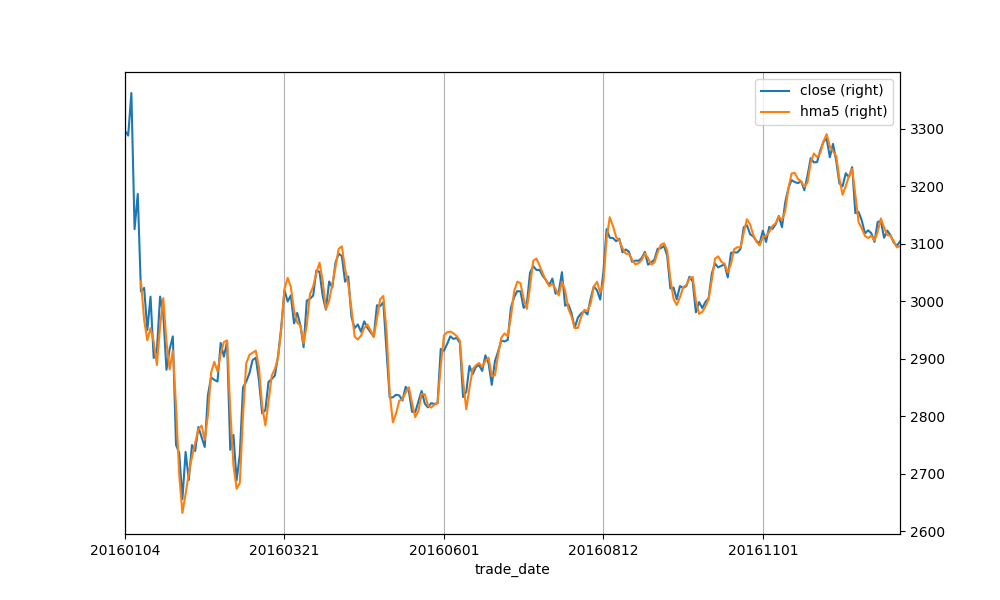
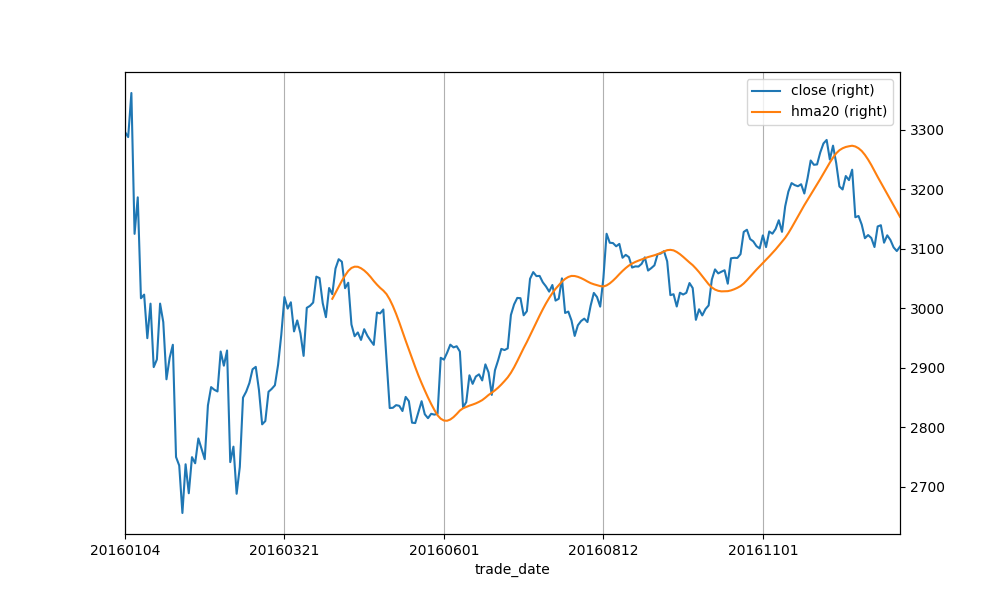
backtest

diff --git a/src/research/timing.py b/src/research/timing.py
@@ -5,7 +5,7 @@ import matplotlib.pyplot as plt
 import pandas as pd
 from src.context import context
 from src.utils.share_selector import ShareSelector
-
+from common.backtest import BackTest
 
 def hma(y, N):
     return ta.WMA((2 * ta.WMA(y, N / 2) - ta.WMA(y, N)), int(math.sqrt(N)))
@@ -24,7 +24,7 @@ df['sma20'] = ta.SMA(df[target_column], timeperiod=20)
 
 df['hma5'] = hma(df['close'], 5)
 df['hma10'] = hma(df['close'], 10)
-df['hma15'] = hma(df['close'], 20)
+df['hma20'] = hma(df['close'], 60)
 
 # buy_signal = df["sma5"] > df["sma10"]
 # df['up'] = df["sma5"] > df["sma10"]
@@ -32,16 +32,27 @@ df['hma15'] = hma(df['close'], 20)
 day_offset = 1
 short_metric = 'sma5'
 long_metric = 'sma10'
-df['buy'] = np.where((df[short_metric].shift(day_offset) < df[long_metric].shift(day_offset)) &
-                     (df[short_metric] > df[long_metric]), 1, 0)
-df['sell'] = np.where((df[short_metric].shift(day_offset) > df[long_metric].shift(day_offset)) &
-                      (df[short_metric] < df[long_metric]), 1, 0)
+# df['buy'] = np.where((df[short_metric].shift(day_offset) < df[long_metric].shift(day_offset)) &
+#                      (df[short_metric] > df[long_metric]), 1, 0)
+# df['sell'] = np.where((df[short_metric].shift(day_offset) > df[long_metric].shift(day_offset)) &
+#                       (df[short_metric] < df[long_metric]), 1, 0)
 df.index = df['trade_date']
 
-print df
+# print df
 # df.loc[:, ['trade_date', 'buy', 'sell']].to_csv('/tmp/r.csv')
 # print ta.SMA(df["close"], timeperiod=25)
 
-df.loc[:, ['close', 'hma5']].plot(secondary_y=True, grid=True, figsize=(10, 6))
+k_metric = 'hma20'
+df.loc[:, ['close', k_metric]].plot(secondary_y=True, grid=True, figsize=(10, 6))
 plt.savefig('books_read.png')
 plt.show()
+
+df['k'] = df[k_metric] - df[k_metric].shift(1)
+df['buy'] = np.where(df['k'] > 0, 1, 0)
+df['sell'] = np.where(df['k'] < 0, 1, 0)
+df['close'] = df['close'] / 1000
+df = df.loc[:, ['trade_date', 'close', 'hma5', 'k', 'buy', 'sell']]
+print df
+
+bt = BackTest()
+bt.test(df)

diff --git a/src/research/common/backtest.py b/src/research/common/backtest.py
@@ -1,0 +1,39 @@
+class BackTest():
+    STATE_EMPTY = 0
+    STATE_HOLD = 1
+
+    def __init__(self):
+        self.state = self.STATE_EMPTY
+        self.discount = 0.999  # remain 998 when earn 1000$
+        self.money = 10000
+        self.hold = 0
+
+    def test(self, signal_table):
+        """
+        do the back test by the singal table.
+        :param signal_table: signal table is a pandas DataFrame with 4 columns. "trade_date" + "close" + "buy" + "sell"
+        :return:
+        """
+        last_price = 0.
+        for index, row in signal_table.iterrows():
+            buy_signal = True if row['buy'] == 1 else False
+            sell_signal = True if row['sell'] == 1 else False
+            date = row['trade_date']
+            close = row['close']
+            last_price = close
+            if self.state == self.STATE_EMPTY and buy_signal:
+                shares = self.money / close
+                self.money = 0
+                self.hold = shares
+                self.state = self.STATE_HOLD
+                print("[date={}] buy {} shares at price = {}".format(date, shares, close))
+
+            elif self.state == self.STATE_HOLD and sell_signal:
+                self.money = int((self.money + self.hold * close) * self.discount)
+                self.state = self.STATE_EMPTY
+
+                print("[date={}] sell {} shares at price = {}".format(date, self.hold, close))
+                self.hold = 0
+
+        value = self.money if self.money > 0 else self.hold * last_price
+        print("final money = {}".format(value))
